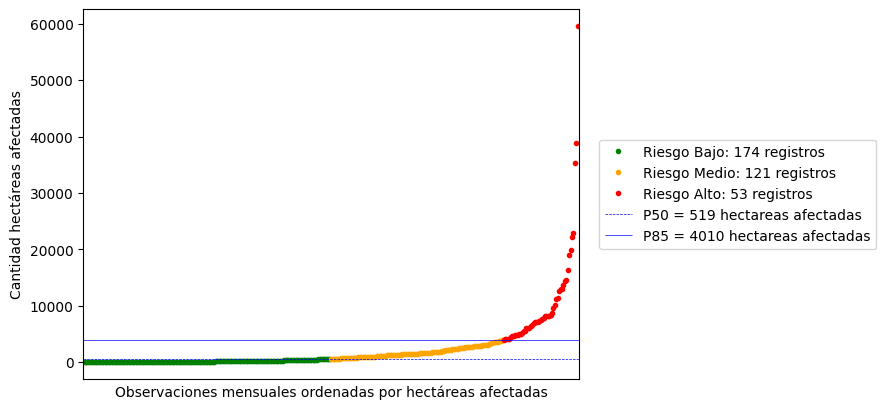
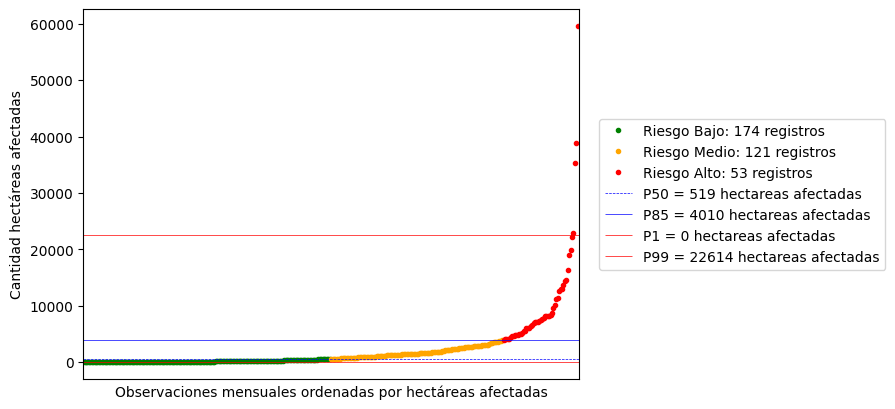
fixes etl y graficos

diff --git a/reg_logistica/etl_reg_logistica.py b/reg_logistica/etl_reg_logistica.py
@@ -91,7 +91,7 @@ def create_grafico_hectareas_cordoba_mes(datos_incendios_mes):
     plt.cla()
 
 
-def create_grafico_riesgo_incendio(datos_finales, q1, q3):
+def create_grafico_riesgo_incendio(datos_finales, q1, q3, p1, p99):
     df = pd.DataFrame(datos_finales)
 
     # order by 'surface_burnt'
@@ -125,10 +125,14 @@ def create_grafico_riesgo_incendio(datos_finales, q1, q3):
 
     plt.hlines(y=q1, xmin=0, xmax=len(datos_finales), colors='blue', linestyles='dashed', lw=0.5, label='P50 = ' + str("{:.0f}".format(q1)) + ' hectareas afectadas')
     plt.hlines(y=q3, xmin=0, xmax=len(datos_finales), colors='blue', linestyles='solid', lw=0.5, label='P85 = ' + str("{:.0f}".format(q3)) + ' hectareas afectadas')
+    plt.hlines(y=p1, xmin=0, xmax=len(datos_finales), colors='red', linestyles='solid', lw=0.5, label='P1 = ' + str("{:.0f}".format(p1)) + ' hectareas afectadas')
+    plt.hlines(y=p99, xmin=0, xmax=len(datos_finales), colors='red', linestyles='solid', lw=0.5, label='P99 = ' + str("{:.0f}".format(p99)) + ' hectareas afectadas')
+
 
     ax.set_xlabel('Observaciones mensuales ordenadas por hectáreas afectadas')
     ax.set_ylabel('Cantidad hectáreas afectadas')
     ax.tick_params(axis='x', which='both', bottom=False, top=False, labelbottom=False)
+    
 
     plt.margins(x=0)
     plt.legend(bbox_to_anchor=(1.04,0.5), loc="center left", borderaxespad=0)
@@ -299,7 +303,15 @@ for dato in datos_finales:
         dato['riesgo_incendio'] = 'alto'
         dato['riesgo_incendio_num'] = 3
 
-create_grafico_riesgo_incendio(datos_finales, q1, q3)
+p1 = numpy.percentile(hectareas_quemadas, 1)
+p99 = numpy.percentile(hectareas_quemadas, 99)
+
+create_grafico_riesgo_incendio(datos_finales, q1, q3, p1, p99)
+
+print('Cantidad de registros: ', len(datos_finales))
+
+datos_finales = list(filter(lambda x: x['hectareas_bosques_nativos'] > p1 and x['hectareas_bosques_nativos'] < p99, datos_finales))
+print('Cantidad de registros filtrados: ', len(datos_finales))
 
 print('Cantidad de bajos: ', len(
     list(filter(lambda x: x['riesgo_incendio'] == 'bajo', datos_finales))))
